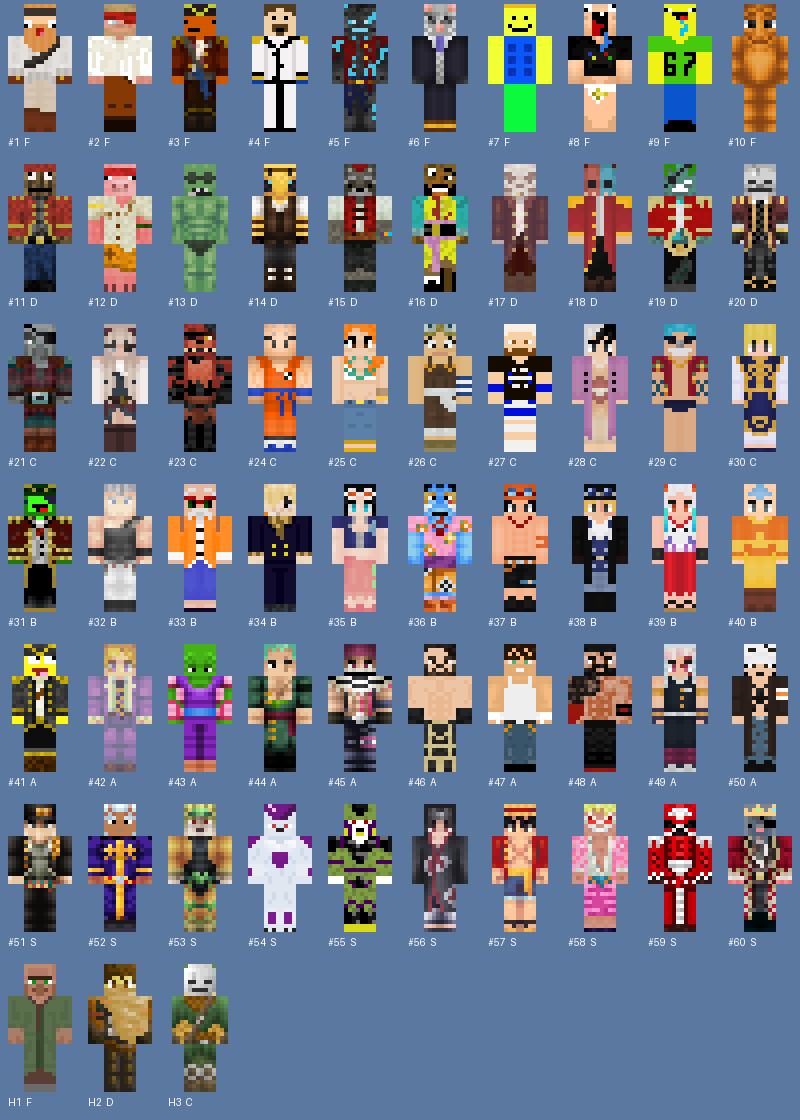
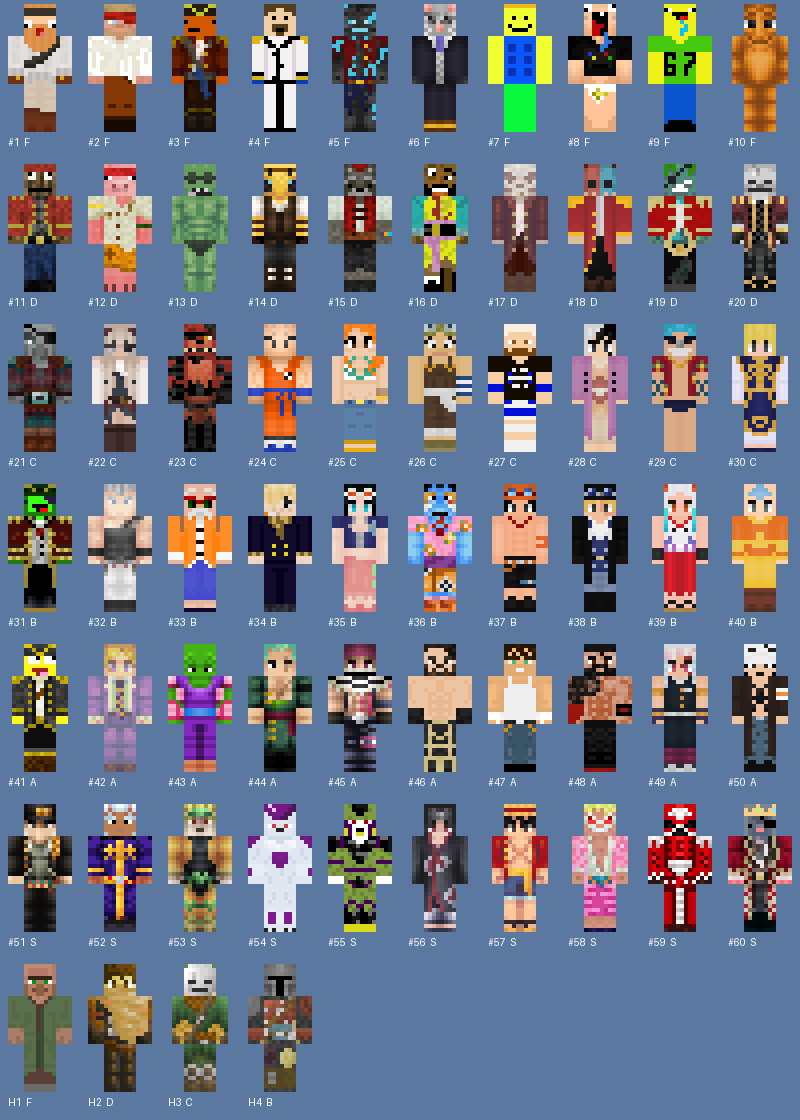
B-tier hunter skin and gear, A-tier strength potions
Claude-Session: https://claude.ai/code/session_0137k2dh1etCUpTsCPJ9Aw3E

Changed region(s): [[0.3125, 0.8438, 0.4062, 1.0]]

diff --git a/src/main/java/com/piratecrew/entity/BountyHunterEntity.java b/src/main/java/com/piratecrew/entity/BountyHunterEntity.java
@@ -30,6 +30,7 @@ import net.minecraft.world.item.ItemStack;
 import net.minecraft.world.item.Items;
 import net.minecraft.world.item.alchemy.PotionUtils;
 import net.minecraft.world.item.alchemy.Potions;
+import net.minecraft.world.item.enchantment.Enchantments;
 import net.minecraft.world.level.Level;
 import net.minecraft.world.phys.Vec3;
 import org.jetbrains.annotations.Nullable;
@@ -160,17 +161,17 @@ public class BountyHunterEntity extends PirateEntity {
             default -> Items.NETHERITE_SWORD;
         };
 
-        if (tier.ordinal() <= PirateTier.C.ordinal()) {
-            // Sword (wooden at F, stone at D, ruby at C), bow and shield: bow in hand for marksmen, sword for everyone else.
+        if (tier.ordinal() <= PirateTier.B.ordinal()) {
+            // Sword (wooden at F, stone at D, ruby at C, ruby with Sharpness II at B), bow and shield:
+            // bow in hand for marksmen, sword for everyone else.
+            ItemStack blade = gear(sword);
+            if (tier == PirateTier.B) blade.enchant(Enchantments.SHARPNESS, 2);
+            ItemStack bow = gear(Items.BOW);
             boolean marksman = getCombatStyle() == CombatStyle.MARKSMAN;
-            setItemSlot(EquipmentSlot.MAINHAND, gear(marksman ? Items.BOW : sword));
-            getPack().setItem(0, gear(marksman ? sword : Items.BOW));
+            setItemSlot(EquipmentSlot.MAINHAND, marksman ? bow : blade);
+            getPack().setItem(0, marksman ? blade : bow);
             setItemSlot(EquipmentSlot.OFFHAND, gear(Items.SHIELD));
-            if (tier == PirateTier.C) {
-                // Poison splash potions to throw, and milk to purge debuffs. Hunters never run out.
-                getPack().setItem(1, PotionUtils.setPotion(new ItemStack(Items.SPLASH_POTION), Potions.POISON));
-                getPack().setItem(2, new ItemStack(Items.MILK_BUCKET));
-            }
+            if (tier.ordinal() >= PirateTier.C.ordinal()) addPotions(false);
             return;
         }
 
@@ -191,6 +192,14 @@ public class BountyHunterEntity extends PirateEntity {
                 if (t >= PirateTier.C.ordinal()) setItemSlot(EquipmentSlot.OFFHAND, gear(Items.SHIELD));
             }
         }
+        if (tier == PirateTier.A) addPotions(true);
+    }
+
+    /** Poison splash potions to throw and milk to purge debuffs (plus strength from A tier). Never run out. */
+    private void addPotions(boolean strength) {
+        getPack().setItem(1, PotionUtils.setPotion(new ItemStack(Items.SPLASH_POTION), Potions.POISON));
+        getPack().setItem(2, new ItemStack(Items.MILK_BUCKET));
+        if (strength) getPack().setItem(3, PotionUtils.setPotion(new ItemStack(Items.POTION), Potions.STRENGTH));
     }
 
     private static ItemStack gear(Item item) {

diff --git a/README.md b/README.md
@@ -104,7 +104,7 @@ To test without installing: `gradlew runClient` launches Minecraft with the mod.
 - **Miss the deadline and the banker sends a bounty hunter after you.** A new one comes every Minecraft day until the debt is paid:
   - Day 1 an **F**-tier hunter, then **D**, **C**, **B**, **A**, **S**, but only if the last one failed to get you.
   - After S: **S + F**, then S + D ... S + S, then S + S + F, and so on (up to 6 hunters a day).
-- **Bounty hunters are 5 times stronger than a pirate of the same tier** (an F hunter has 100 HP, an S hunter 280 HP and 35 base damage) They wear no armor, so you can see their skins, but they get the armor of a full set built into their stats: leather at F, then chainmail, iron, ruby, diamond and netherite at S. An F hunter carries a wooden sword, a bow and a shield; a D hunter a stone sword, a bow and a shield; a C hunter a ruby cutlass, a bow, a shield, poison splash potions to throw at you and a milk bucket to wash off anything you throw at him. Higher tiers carry ruby, diamond and netherite swords, with crossbows, bows and shields. Their weapons never break and their potions and milk never run out. Their weapons never break. They fight with the same styles as pirates, track you down if you run, and appear 20 to 30 blocks away so you see them coming.
+- **Bounty hunters are 5 times stronger than a pirate of the same tier** (an F hunter has 100 HP, an S hunter 280 HP and 35 base damage) They wear no armor, so you can see their skins, but they get the armor of a full set built into their stats: leather at F, then chainmail, iron, ruby, diamond and netherite at S. An F hunter carries a wooden sword, a bow and a shield; a D hunter a stone sword, a bow and a shield; a C hunter a ruby cutlass, a bow, a shield, poison splash potions to throw at you and a milk bucket to wash off anything you throw at him; a B hunter the same with a Sharpness II ruby cutlass. An A hunter carries a diamond sword and also drinks strength potions on top of the poison and milk; an S hunter a netherite sword. Higher tiers also use crossbows. Their weapons never break and their potions and milk never run out. Their weapons never break. They fight with the same styles as pirates, track you down if you run, and appear 20 to 30 blocks away so you see them coming.
 - They can't be recruited, only hunt the player who owes the debt (and anyone who attacks them, so your crew can help), and **drop nothing**: no gear, no XP. They're a punishment, not something to farm.
 - **If a hunter kills you**, the bank collects, in this order:
   1. **Your bounty:** the bank claims the whole bounty on your head (announced to the server) and takes it off your debt.
